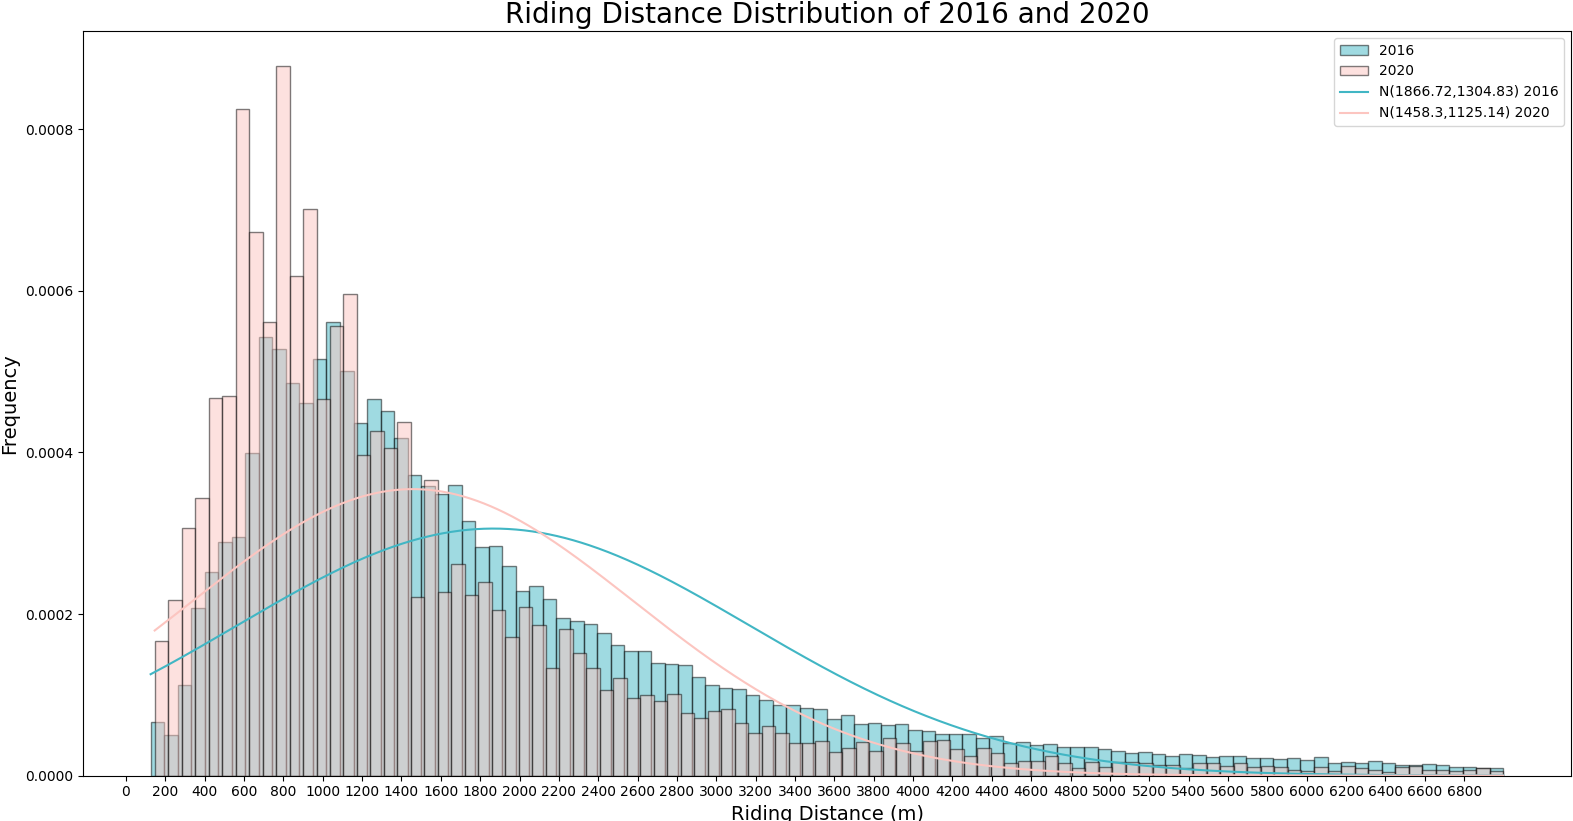
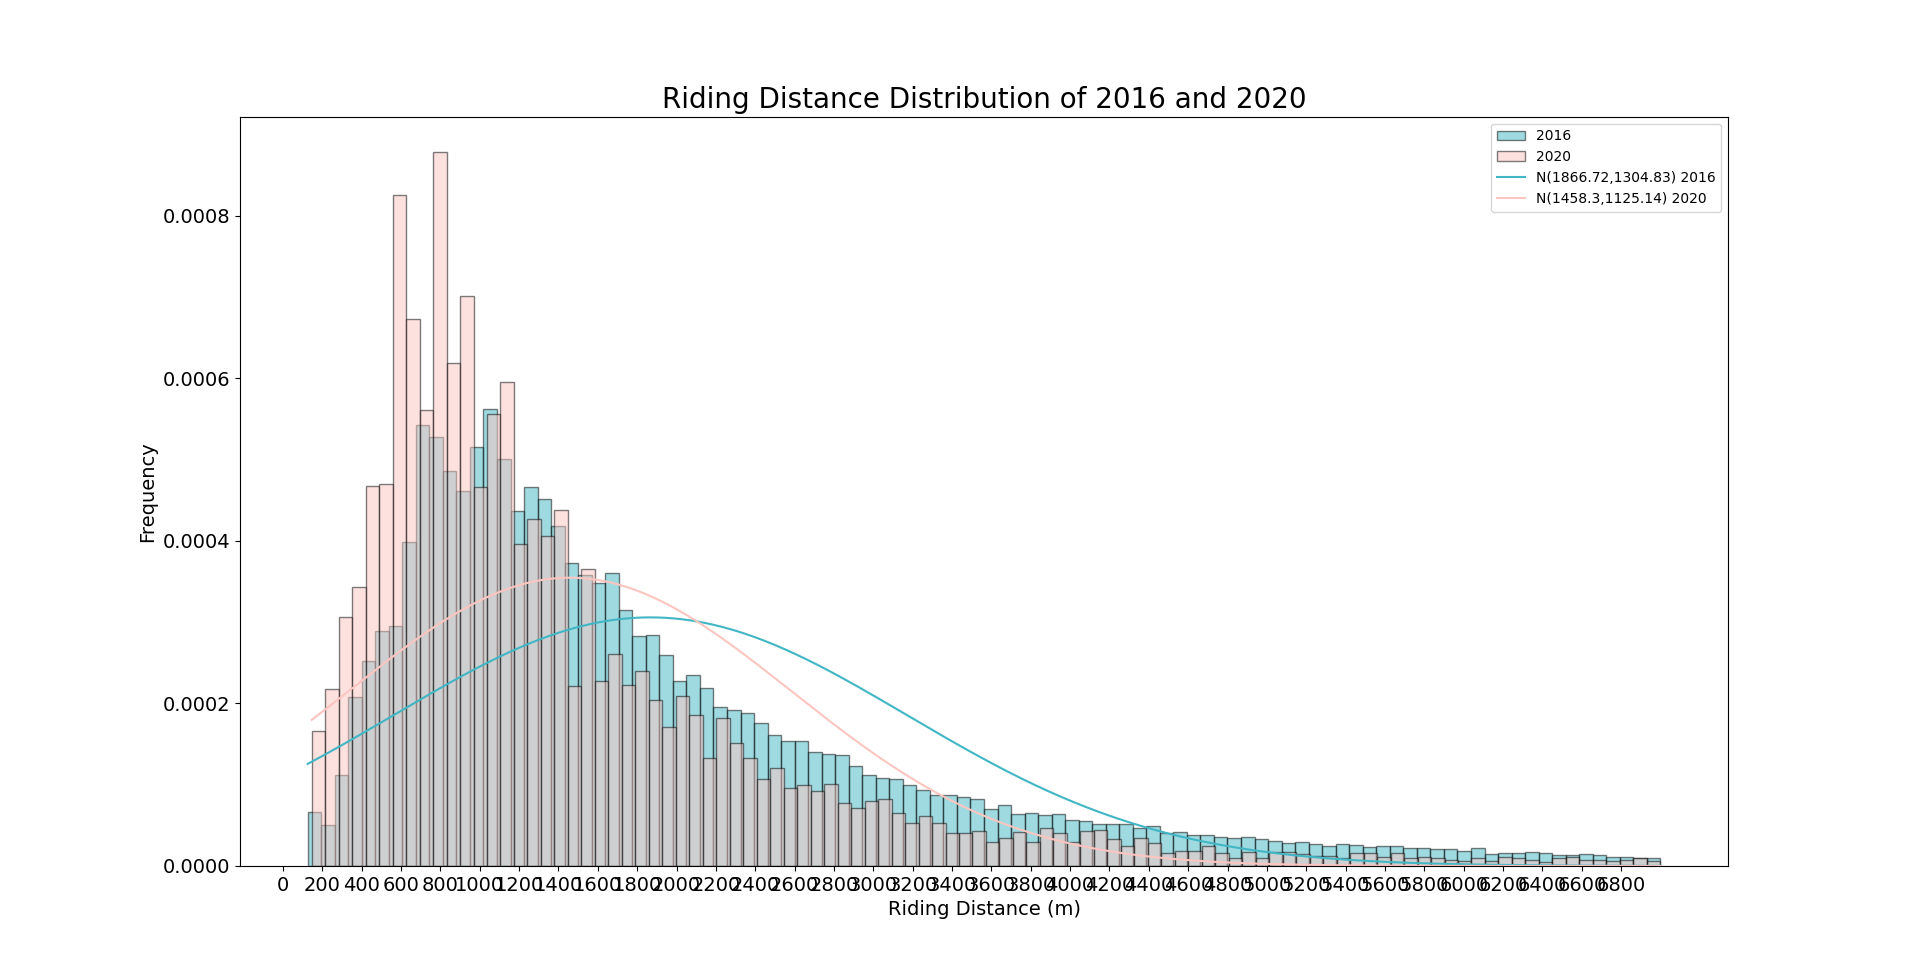
优化 dsbar 和 dubar 函数中的坐标轴刻度字体大小，以提高可读性

diff --git a/paper/src/dsbar.py b/paper/src/dsbar.py
@@ -30,7 +30,8 @@ def dsbar(DSpathArr, YEARArr):
         y = norm.pdf(x, mu, sigma)
         plt.plot(x, y, label='N(' + str(round(mu, 2)) + ',' + str(round(sigma, 2)) + ')' + ' ' + YEARArr[i], color=colors[i])
     # x 轴 刻度增加
-    plt.xticks(np.arange(0, 7000, 200))
+    plt.xticks(np.arange(0, 7000, 200), fontsize=14)
+    plt.yticks(fontsize=14)
 
     # 添加标题
     plt.title('Riding Distance Distribution of ' + YEARArr[0] + ' and ' + YEARArr[1], fontsize=20)
@@ -64,7 +65,8 @@ def dubar(DupathArr, YEARArr):
         y = norm.pdf(x, mu, sigma)
         plt.plot(x, y, label='N(' + str(round(mu, 2)) + ',' + str(round(sigma, 2)) + ')' + ' ' + YEARArr[i], color=colors[i])
 
-    plt.xticks(np.arange(0, 120, 5))
+    plt.xticks(np.arange(0, 120, 5), fontsize=14)
+    plt.yticks(fontsize=14)
 
     # 添加标题
     plt.title('Riding Duration Distribution of ' + YEARArr[0] + ' and ' + YEARArr[1], fontsize=20)
